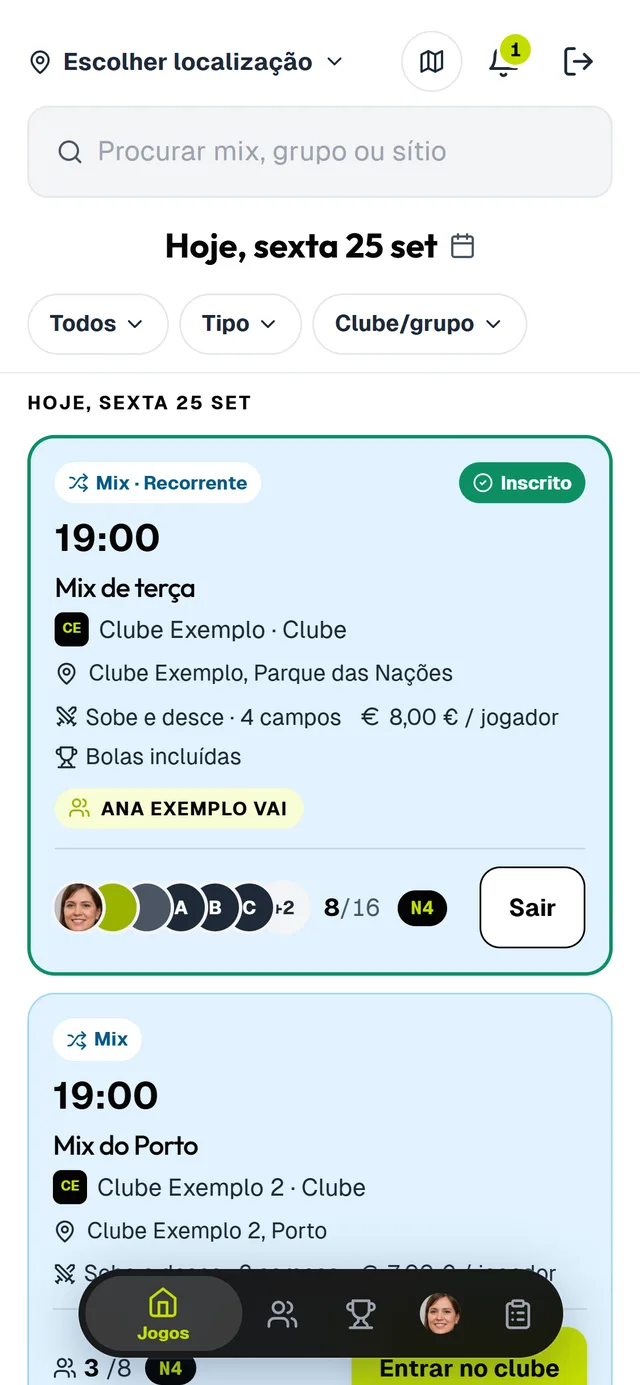
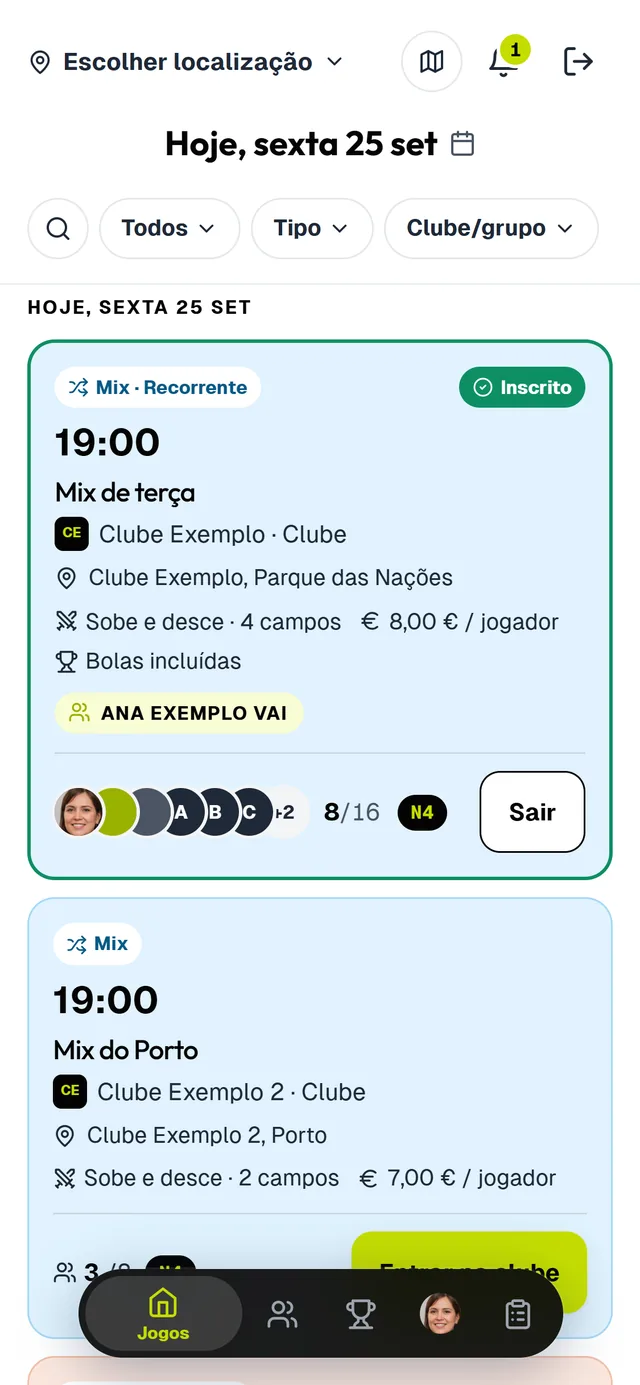
feat(site): planos só em /planos, Home nova no telemóvel, contactos iguais e Torneios no Community (Trello #327 #538)
- Página principal: os 4 planos e os preços saem (SHOW_PRICES_ON_HOME = false);
  fica a faixa «Ver os planos ›». Decisão do Francisco, 26 set.
- Print do telemóvel: a Home nova da conta de exemplo (com a lupa), da designer.
- /planos, «És um clube?»: Email e WhatsApp iguais, só com contorno (sem o verde).
- Community: «Torneios e liga · em breve» passa a «Torneios» + «Liga · em breve» (#538).

diff --git a/src/pages/Landing.jsx b/src/pages/Landing.jsx
@@ -283,7 +283,8 @@ function OrganizersBar() {
 export const PLANS = [
   { key: 'free', name: 'Free', features: [['f1'], ['f2'], ['f3']] },
   { key: 'plus', name: 'Squad', features: [['f1'], ['f2'], ['f3']] },
-  { key: 'pro', name: 'Community', highlight: true, features: [['f1'], ['f2'], ['f3'], ['f4'], ['f5', 'soon']] },
+  // Torneios já existem; a liga ainda não (Francisco, 25 set; Trello #538).
+  { key: 'pro', name: 'Community', highlight: true, features: [['f1'], ['f2'], ['f3'], ['f4'], ['f5'], ['f6', 'soon']] },
   { key: 'club', name: 'Club', features: [['f1'], ['f2', 'soon'], ['f3', 'soon'], ['f4', 'soon']] },
 ]
 
@@ -331,12 +332,11 @@ export function PlanCard({ plan }) {
   )
 }
 
-// ── PREÇOS NA PÁGINA PRINCIPAL — BLOCO PROVISÓRIO ─────────────────────────
-// O desenho aprovado tira os 4 planos daqui (vão para /planos). Tirá-los mexe
-// na forma de vender aos clubes, por isso é PROPOSTA POR ACORDAR COM O
-// RENATO. Até ele responder, ficam como estavam (PO, 25 set). Quando ele
-// disser, passa isto a false — e não é preciso mexer em mais nada.
-const SHOW_PRICES_ON_HOME = true
+// ── PREÇOS NA PÁGINA PRINCIPAL ────────────────────────────────────────────
+// Os planos e os preços ficam só em /planos; aqui fica a faixa «Ver os
+// planos ›» (Francisco, 26 set: «se não gostarem a gente volta a alterar»).
+// Para os voltar a mostrar aqui, basta passar isto a true.
+const SHOW_PRICES_ON_HOME = false
 
 export function PlansGrid() {
   return (

diff --git a/src/pages/Plans.jsx b/src/pages/Plans.jsx
@@ -31,12 +31,14 @@ export default function Plans() {
         <section className="mt-10 rounded-card bg-white border border-line p-6 max-w-xl">
           <h2 className="text-2xl text-ink-900">{t('plans.club_title')}</h2>
           <p className="text-ink-700 mt-1">{t('plans.club_text')}</p>
+          {/* «Quem escreve escolhe» (Francisco): os dois iguais, só com
+              contorno. O verde do WhatsApp é uma cor fora da marca. */}
           <div className="mt-4 flex gap-3">
             <a href={mailtoLink(t('plans.email_subject'))} className={`${contact} border border-ink-900 bg-white text-ink-900 hover:bg-ink-50`}>
               <Mail size={18} /> {t('plans.email')}
             </a>
             <a href={whatsappContactLink(t('plans.whatsapp_text'))} target="_blank" rel="noopener noreferrer"
-               className={`${contact} bg-[#25D366] text-ink-900 hover:brightness-95`}>
+               className={`${contact} border border-ink-900 bg-white text-ink-900 hover:bg-ink-50`}>
               <MessageCircle size={18} /> {t('plans.whatsapp')}
             </a>
           </div>
